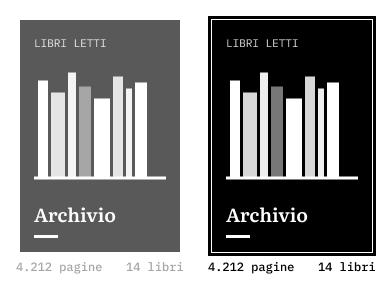
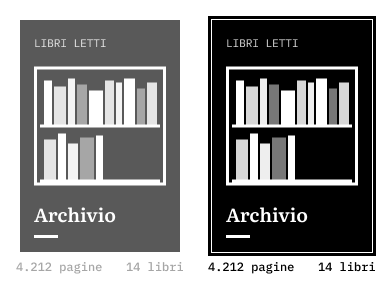
Redraw archive card as a two-shelf bookcase
Claude-Session: https://claude.ai/code/session_017ad5J3QvE7Jna11hQjBPhw

Changed region(s): [[0.551, 0.2172, 0.9184, 0.6517], [0.0612, 0.2172, 0.4286, 0.6517]]

diff --git a/diario/2026-11-16-home-landing.md b/diario/2026-11-16-home-landing.md
@@ -1,6 +1,6 @@
 # 2026-11-16 · Home di partenza e Archivio grande come un libro
 
-**Durata:** circa 8 minuti (12:44–12:52 UTC).
+**Durata:** circa 12 minuti (12:44–12:52 UTC, più 4 minuti alle 12:50 per lo scaffale).
 **Risultato:** la libreria a copertine di Simone diventa la schermata di partenza
 (*00 · Home (landing)* nel file Figma [Carbonella](https://www.figma.com/design/TD5USYE5DwkvWALoR821lL)),
 con l'Archivio come prima card della griglia.
@@ -20,8 +20,9 @@ con l'Archivio come prima card della griglia.
   cornice con 4 px di margine, "copertina" da 160×232 e sotto la riga di informazioni nello stesso
   carattere (IBM Plex Mono 12). Le card non selezionate sono attenuate come i libri; la selezione è la
   stessa cornice nera di 3 px.
-- La copertina dell'Archivio è nera, con in alto "LIBRI LETTI", al centro una mensola con otto dorsi di
-  grigi diversi e in basso il titolo *Archivio* con il filetto, come le copertine dei libri. Sotto:
+- La copertina dell'Archivio è nera, con in alto "LIBRI LETTI", al centro un piccolo scaffale con
+  **due mensole** (quella in alto piena, quella in basso a metà, che si riempie man mano) e in basso il
+  titolo *Archivio* con il filetto, come le copertine dei libri. Sotto:
   `4.212 pagine` a sinistra e `14 libri` a destra.
 - Proprietà del componente: `Nome`, `Pagine`, `Dettagli`, `Stato`. Si può riusare per qualunque
   raccolta (basta cambiare il nome).
@@ -31,6 +32,14 @@ con l'Archivio come prima card della griglia.
 | Home | Componente (normale / selezionato) |
 |---|---|
 | ![](img/2026-11-16-home-landing.png) | ![](img/2026-11-16-archivio-card.png) |
+
+## Seconda versione: due mensole
+
+Simone: "non mi piace, fallo come fossero due mensole di uno scaffale". La prima versione aveva una sola
+mensola con i dorsi alti, sembrava più un grafico a barre che una libreria. Ora c'è il mobile intero:
+bordo bianco, due ripiani, dieci libri sopra e cinque sotto.
+
+![Versione con una mensola sola](img/2026-11-16-archivio-card-mensola-singola.png)
 
 ## Intoppi
 
